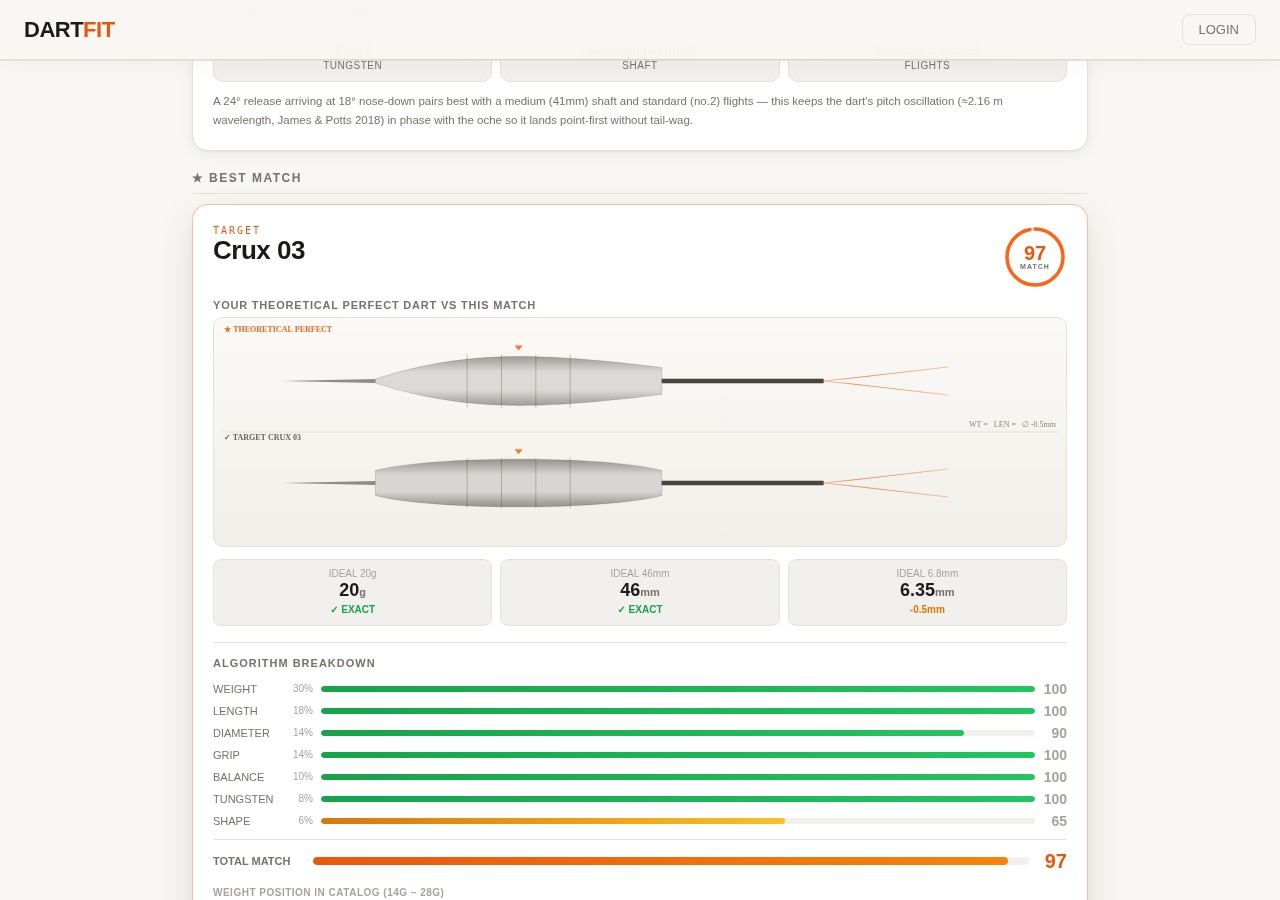
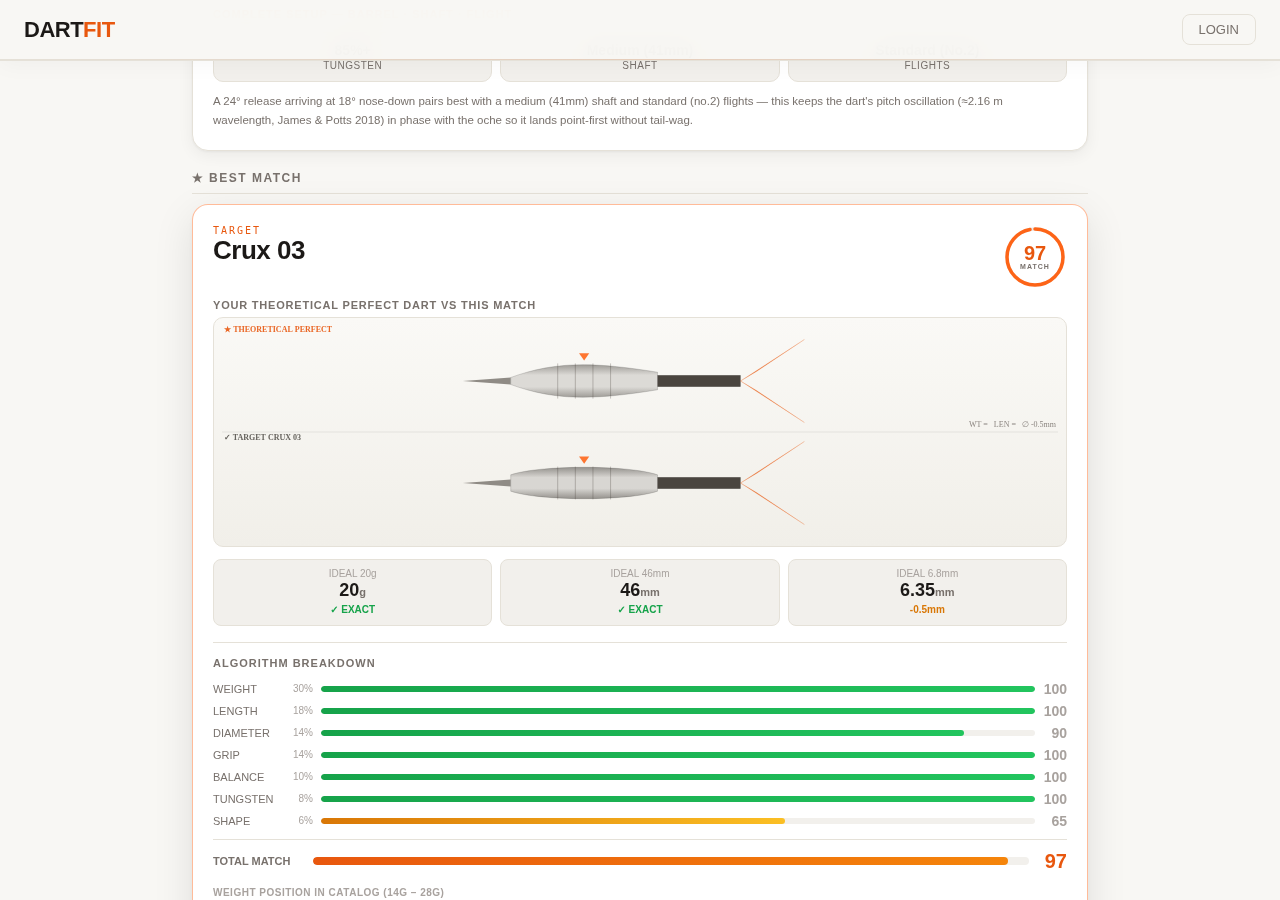
Fix dart-model distortion on mobile: uniform physical-scale rendering
The silhouette renderer scaled horizontal dimensions with canvas width
but used hardcoded pixel heights for flights (±14px), shaft (4.4px) and
tip — so proportions warped badly on narrow mobile canvases. Now:

- One shared mm→px scale for both axes (dartGeometry), capped by canvas
  height and centred horizontally — the dart keeps true physical
  proportions at every size; tip, shaft, flights and CoG marker are all
  specified in millimetres
- The perfect-vs-match comparison imposes a single shared geometry sized
  to the longer dart, keeping both rows tip-aligned at identical scale
  so the length delta reads honestly
- Debounced resize handler re-renders every dart/physics canvas —
  rotating the phone no longer stretches the bitmaps
- Tighter canvas heights on ≤480px screens; mobile flow verified on a
  390×844 touch viewport including landscape rotation (zero JS errors)

Claude-Session: https://claude.ai/code/session_01FrDojxDFL22y5KChkNJdyT

Changed region(s): [[0.25, 0.4978, 0.6875, 0.5911], [0.25, 0.3733, 0.6875, 0.4667]]

diff --git a/public/index.html b/public/index.html
@@ -246,6 +246,10 @@ input[type=range]::-webkit-slider-thumb{-webkit-appearance:none;width:22px;heigh
 .dart-vis-canvas-lg{position:absolute;inset:0;width:100%;height:100%}
 .dart-compare-wrap{position:relative;width:100%;height:230px;margin-bottom:4px;
   background:linear-gradient(180deg,#faf9f6,#f1efe9);border:1px solid var(--border);border-radius:10px;overflow:hidden}
+@media(max-width:480px){
+  .dart-vis-wrap{height:118px}
+  .dart-compare-wrap{height:196px}
+}
 
 /* ─── THROW ARC (light) ─── */
 .throw-arc-block{background:linear-gradient(180deg,#faf9f6,#f1efe9);border:1px solid var(--border);padding:12px;margin-top:12px;border-radius:10px}
@@ -1955,25 +1959,37 @@ function typeWriter(el, text, speed=16) {
 // Draws a dart silhouette. opts: { weight, length_mm, diameter_mm,
 // barrel_shape, grip_type, balance_point, tungsten_pct, matchScore,
 // ghost: bool (draw as dashed orange outline instead of solid) }
+// Shared geometry: ONE uniform mm→px scale for both axes, capped by the
+// canvas height and centred horizontally. The dart keeps true physical
+// proportions at every canvas size — previously flight/shaft heights were
+// hardcoded pixels, which warped the dart badly on narrow mobile canvases.
+const DART_MM = { tip: 15, shaft: 26, flight: 20, pad: 4, vSpan: 30, rExag: 1.8 };
+function dartGeometry(W, H, length_mm) {
+  const totalMm = DART_MM.tip + length_mm + DART_MM.shaft + DART_MM.flight + DART_MM.pad;
+  const scale = Math.min((W * 0.9) / totalMm, (H * 0.84) / DART_MM.vSpan);
+  const startX = (W - totalMm * scale) / 2;
+  return { totalMm, scale, startX };
+}
+
 function drawDartSilhouette(ctx, W, H, opts, offsetY) {
   const { weight=22, length_mm=50, diameter_mm=6.5, barrel_shape='straight',
           grip_type='medium_knurl', balance_point='middle',
           tungsten_pct=90, ghost=false } = opts;
   const cy = (offsetY || 0) + H / 2;
-  const dpr = window.devicePixelRatio || 1;
 
-  const tipMm=15, shaftMm=26, flightMm=20;
-  const totalMm = tipMm + length_mm + shaftMm + flightMm + 8;
-  const scale = (W * 0.84) / totalMm;
-  const startX = W * 0.08;
-  const maxR = Math.max(2.5, (diameter_mm / 2) * scale * 1.4);
+  const tipMm = DART_MM.tip, shaftMm = DART_MM.shaft, flightMm = DART_MM.flight;
+  // _geom lets the comparison view impose one shared scale + origin so
+  // both darts stay tip-aligned and the length difference reads true.
+  const { scale, startX } = opts._geom || dartGeometry(W, H, length_mm);
+  const maxR = Math.max(2.5, (diameter_mm / 2) * scale * DART_MM.rExag);
 
-  // ── TIP ──
+  // ── TIP ── (1.1mm half-thickness at the barrel, to a point)
+  const tipR = Math.max(1.2, 1.1 * scale);
   if (!ghost) {
     ctx.beginPath();
     ctx.moveTo(startX, cy);
-    ctx.lineTo(startX + tipMm * scale, cy - 2);
-    ctx.lineTo(startX + tipMm * scale, cy + 2);
+    ctx.lineTo(startX + tipMm * scale, cy - tipR);
+    ctx.lineTo(startX + tipMm * scale, cy + tipR);
     ctx.closePath();
     ctx.fillStyle = '#8f8b85';
     ctx.fill();
@@ -1985,10 +2001,10 @@ function drawDartSilhouette(ctx, W, H, opts, offsetY) {
   ctx.beginPath();
   const sh = barrel_shape;
   if (sh === 'teardrop') {
-    ctx.moveTo(bx, cy - 2);
+    ctx.moveTo(bx, cy - tipR);
     ctx.bezierCurveTo(bx + length_mm*scale*.3, cy - maxR, bx + length_mm*scale*.55, cy - maxR, ex, cy - maxR*.45);
     ctx.lineTo(ex, cy + maxR*.45);
-    ctx.bezierCurveTo(bx + length_mm*scale*.55, cy + maxR, bx + length_mm*scale*.3, cy + maxR, bx, cy + 2);
+    ctx.bezierCurveTo(bx + length_mm*scale*.55, cy + maxR, bx + length_mm*scale*.3, cy + maxR, bx, cy + tipR);
   } else if (sh === 'torpedo') {
     const t = maxR * 0.45;
     ctx.moveTo(bx, cy - t);
@@ -2070,30 +2086,69 @@ function drawDartSilhouette(ctx, W, H, opts, offsetY) {
   glow.addColorStop(1, 'rgba(255,85,0,.18)');
   ctx.fillStyle = glow; ctx.fill();
 
-  // ── BALANCE / CoG MARKER ──
+  // ── BALANCE / CoG MARKER ── (size follows the scale)
   const cogX = balance_point === 'front' ? bx + length_mm*scale*.3 :
                balance_point === 'rear'  ? bx + length_mm*scale*.7 : bx + length_mm*scale*.5;
+  const mk = Math.max(3, 1.6 * scale);
   ctx.beginPath();
-  ctx.moveTo(cogX - 4, cy - maxR - 6);
-  ctx.lineTo(cogX + 4, cy - maxR - 6);
+  ctx.moveTo(cogX - mk, cy - maxR - mk * 1.6);
+  ctx.lineTo(cogX + mk, cy - maxR - mk * 1.6);
   ctx.lineTo(cogX, cy - maxR - 1);
   ctx.closePath();
   ctx.fillStyle = 'rgba(255,85,0,.8)'; ctx.fill();
 
-  // ── SHAFT ──
+  // ── SHAFT ── (nylon shaft ≈ 4mm diameter, in true scale)
+  const shR = Math.max(1.4, 2.0 * scale * 0.9);
   ctx.fillStyle = '#4a453f';
-  ctx.fillRect(ex, cy - 2.2, shaftMm * scale, 4.4);
-  ctx.strokeStyle = 'rgba(0,0,0,.15)'; ctx.lineWidth = .5; ctx.strokeRect(ex, cy - 2.2, shaftMm * scale, 4.4);
+  ctx.fillRect(ex, cy - shR, shaftMm * scale, shR * 2);
+  ctx.strokeStyle = 'rgba(0,0,0,.15)'; ctx.lineWidth = .5; ctx.strokeRect(ex, cy - shR, shaftMm * scale, shR * 2);
 
-  // ── FLIGHTS ──
+  // ── FLIGHTS ── (wing tips at ±13mm, roots at ±3mm — all in mm scale)
   const fx = ex + shaftMm * scale;
-  [[cy - 14, cy - 3], [cy + 14, cy + 3]].forEach(([tip, root]) => {
+  const wingTip = 13 * scale, wingRoot = 3 * scale;
+  [[cy - wingTip, cy - wingRoot], [cy + wingTip, cy + wingRoot]].forEach(([tip, root]) => {
     ctx.beginPath(); ctx.moveTo(fx, cy); ctx.lineTo(fx + flightMm * scale, tip);
     ctx.lineTo(fx + 5 * scale, root); ctx.closePath();
     ctx.fillStyle = 'rgba(232,87,14,.75)'; ctx.fill();
     ctx.strokeStyle = 'rgba(232,87,14,.35)'; ctx.lineWidth = .5; ctx.stroke();
   });
 }
+
+// ─── RESPONSIVE REDRAW ───────────────────────────────────────────
+// Canvases are bitmaps: without this, rotating the phone stretches
+// them. Any resize re-renders every dart/physics canvas at the new size.
+let _redrawT = null;
+window.addEventListener('resize', () => {
+  clearTimeout(_redrawT);
+  _redrawT = setTimeout(() => {
+    if (state.fitResult) {
+      const { profile, topDart, budgetDart, valueDart, premiumDart } = state.fitResult;
+      const idealOpts = {
+        weight: profile.idealWeight, length_mm: profile.idealLength,
+        diameter_mm: profile.idealDiameter, barrel_shape: profile.barrelShape,
+        grip_type: profile.idealGripType, balance_point: profile.balance,
+        tungsten_pct: profile.idealTungstenPct || 90,
+      };
+      renderDartCanvas('dart-ideal-canvas', idealOpts);
+      if (topDart) renderDartComparison('dart-match-canvas', idealOpts, {
+        weight: topDart.weight, length_mm: topDart.length_mm, diameter_mm: topDart.diameter_mm,
+        barrel_shape: topDart.barrel_shape, grip_type: topDart.grip_type,
+        balance_point: topDart.balance_point, tungsten_pct: topDart.tungsten_pct,
+      }, `${topDart.brand} ${topDart.name}`);
+      renderThrowArc('throw-arc-canvas', profile);
+      const tiers = [budgetDart, valueDart, premiumDart].filter(Boolean);
+      document.querySelectorAll('canvas.tier-dart-canvas').forEach((c, i) => {
+        const d = tiers[i];
+        if (d) renderDartCanvas(c.id, {
+          weight: d.weight, length_mm: d.length_mm, diameter_mm: d.diameter_mm,
+          barrel_shape: d.barrel_shape, grip_type: d.grip_type,
+          balance_point: d.balance_point, tungsten_pct: d.tungsten_pct,
+        });
+      });
+    }
+    if (state._profilePerfect) renderDartCanvas('profile-perfect-canvas', state._profilePerfect);
+  }, 220);
+});
 
 // ─── DRAW DART ON NAMED CANVAS ───────────────────────────────────
 function renderDartCanvas(canvasId, opts, showGhostIdeal, idealOpts) {
@@ -2138,10 +2193,13 @@ function renderDartComparison(canvasId, idealOpts, dartOpts, dartName) {
   ctx.clearRect(0, 0, W, H);
 
   const rowH = H / 2;
+  // One shared geometry (sized to the longer dart) keeps both rows
+  // tip-aligned at identical scale, so deltas are physically honest.
+  const gShared = dartGeometry(W, rowH, Math.max(idealOpts.length_mm, dartOpts.length_mm));
   // Theoretical perfect dart (top)
-  drawDartSilhouette(ctx, W, rowH, idealOpts, 6);
+  drawDartSilhouette(ctx, W, rowH, { ...idealOpts, _geom: gShared }, 6);
   // Matched real dart (bottom)
-  drawDartSilhouette(ctx, W, rowH, dartOpts, rowH - 6);
+  drawDartSilhouette(ctx, W, rowH, { ...dartOpts, _geom: gShared }, rowH - 6);
 
   // Row labels
   ctx.font = `bold 8px 'Share Tech Mono'`;
@@ -2155,13 +2213,9 @@ function renderDartComparison(canvasId, idealOpts, dartOpts, dartName) {
   ctx.strokeStyle = 'rgba(0,0,0,.07)'; ctx.lineWidth = 1;
   ctx.beginPath(); ctx.moveTo(8, rowH); ctx.lineTo(W - 8, rowH); ctx.stroke();
 
-  // Length-delta guides: vertical dashes at each barrel's end
-  const tipMm = 15, shaftMm = 26, flightMm = 20;
-  const endX = (o) => {
-    const totalMm = tipMm + o.length_mm + shaftMm + flightMm + 8;
-    const scale = (W * 0.84) / totalMm;
-    return W * 0.08 + (tipMm + o.length_mm) * scale;
-  };
+  // Length-delta guides: vertical dashes at each barrel's end,
+  // using the exact shared geometry the silhouettes were drawn with
+  const endX = (o) => gShared.startX + (DART_MM.tip + o.length_mm) * gShared.scale;
   const e1 = endX(idealOpts), e2 = endX(dartOpts);
   if (Math.abs(idealOpts.length_mm - dartOpts.length_mm) >= 1) {
     ctx.setLineDash([3, 3]); ctx.lineWidth = 1;
@@ -2439,11 +2493,14 @@ async function renderProfile() {
       <div style="height:32px"></div>
     `;
     // Render the perfect-dart silhouette from the saved ideal spec
-    if (p) setTimeout(() => renderDartCanvas('profile-perfect-canvas', {
-      weight: p.ideal_weight, length_mm: p.ideal_length_mm, diameter_mm: p.ideal_diameter_mm,
-      barrel_shape: p.ideal_barrel_shape, grip_type: p.ideal_grip_type,
-      balance_point: p.ideal_balance, tungsten_pct: p.ideal_tungsten_pct || 90,
-    }), 60);
+    if (p) {
+      state._profilePerfect = {
+        weight: p.ideal_weight, length_mm: p.ideal_length_mm, diameter_mm: p.ideal_diameter_mm,
+        barrel_shape: p.ideal_barrel_shape, grip_type: p.ideal_grip_type,
+        balance_point: p.ideal_balance, tungsten_pct: p.ideal_tungsten_pct || 90,
+      };
+      setTimeout(() => renderDartCanvas('profile-perfect-canvas', state._profilePerfect), 60);
+    }
   } catch(e) {
     container.innerHTML = `<div style="text-align:center;padding:40px;color:var(--muted)">${e.message}</div>`;
   }
